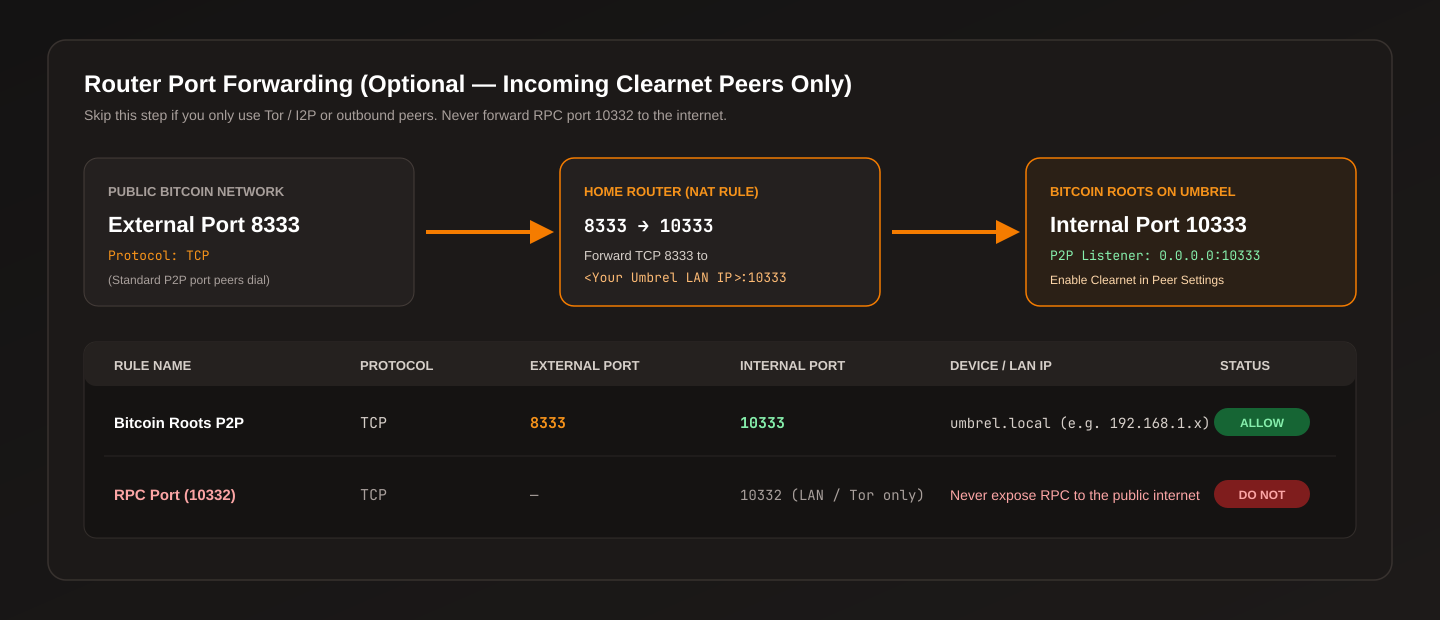
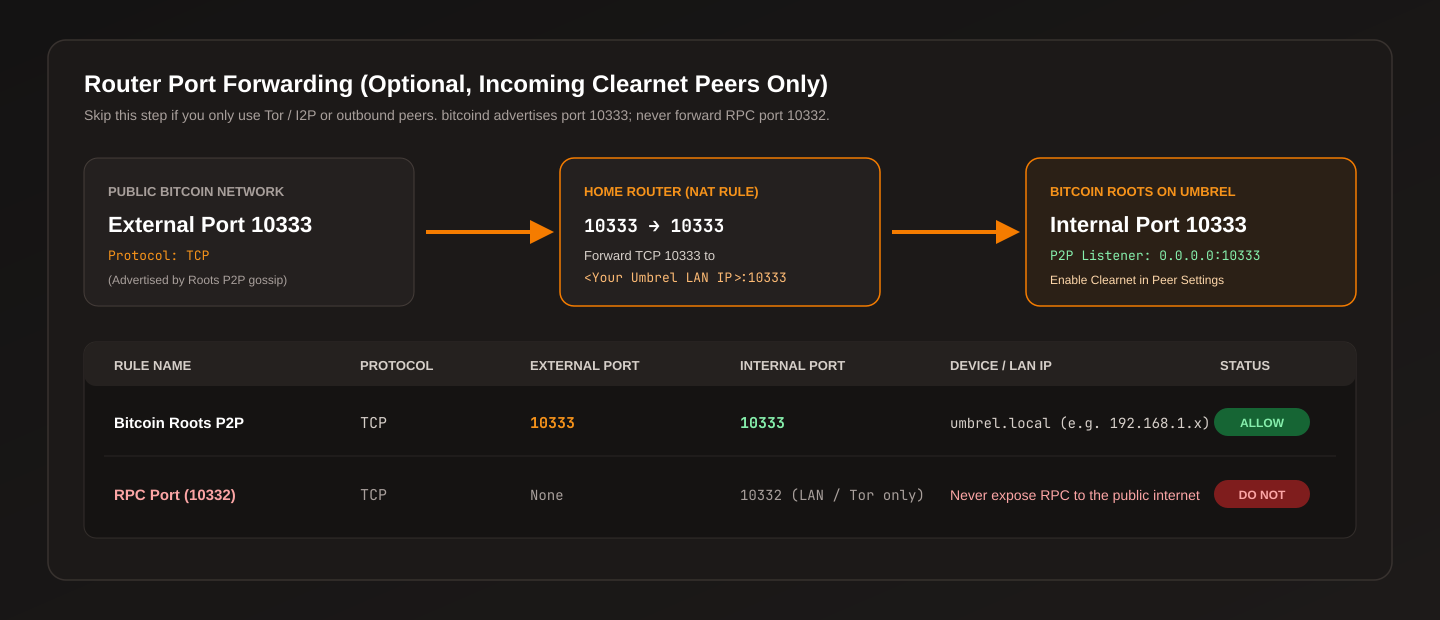
docs(migration): update router port forwarding to TCP 10333 -> 10333

diff --git a/MIGRATION.md b/MIGRATION.md
@@ -238,9 +238,11 @@ If you want to accept **incoming clearnet peers** (and previously forwarded port
 
 ![Bitcoin Roots Peer Settings](blockdyor-bitcoin-roots/gallery_3.png)
 
-2. Update your router's NAT / port-forwarding rule to translate external TCP **`8333`** to internal TCP **`10333`** on your Umbrel's LAN IP:
+2. Add or update your router's NAT / port-forwarding rule to forward external TCP **`10333`** to internal TCP **`10333`** on your Umbrel's LAN IP. Because Bitcoin Roots configures `port=10333` in `umbrel-bitcoin.conf`, `bitcoind` advertises `<your-public-ip>:10333` over Bitcoin P2P gossip (the same way Bitcoin Knots uses `9333` to `9333`).
+   - *(Optional)* Once Bitcoin Core is stopped or uninstalled, you can also add a second rule forwarding external TCP **`8333`** to internal TCP **`10333`** for peers that probe the default Bitcoin port.
+   - **Never** forward RPC port `10332` to the public internet.
 
-![Router Port Forwarding External 8333 to Internal 10333](docs/migration-router-ports.png)
+![Router Port Forwarding External 10333 to Internal 10333](docs/migration-router-ports.png)
 
 ---
 
